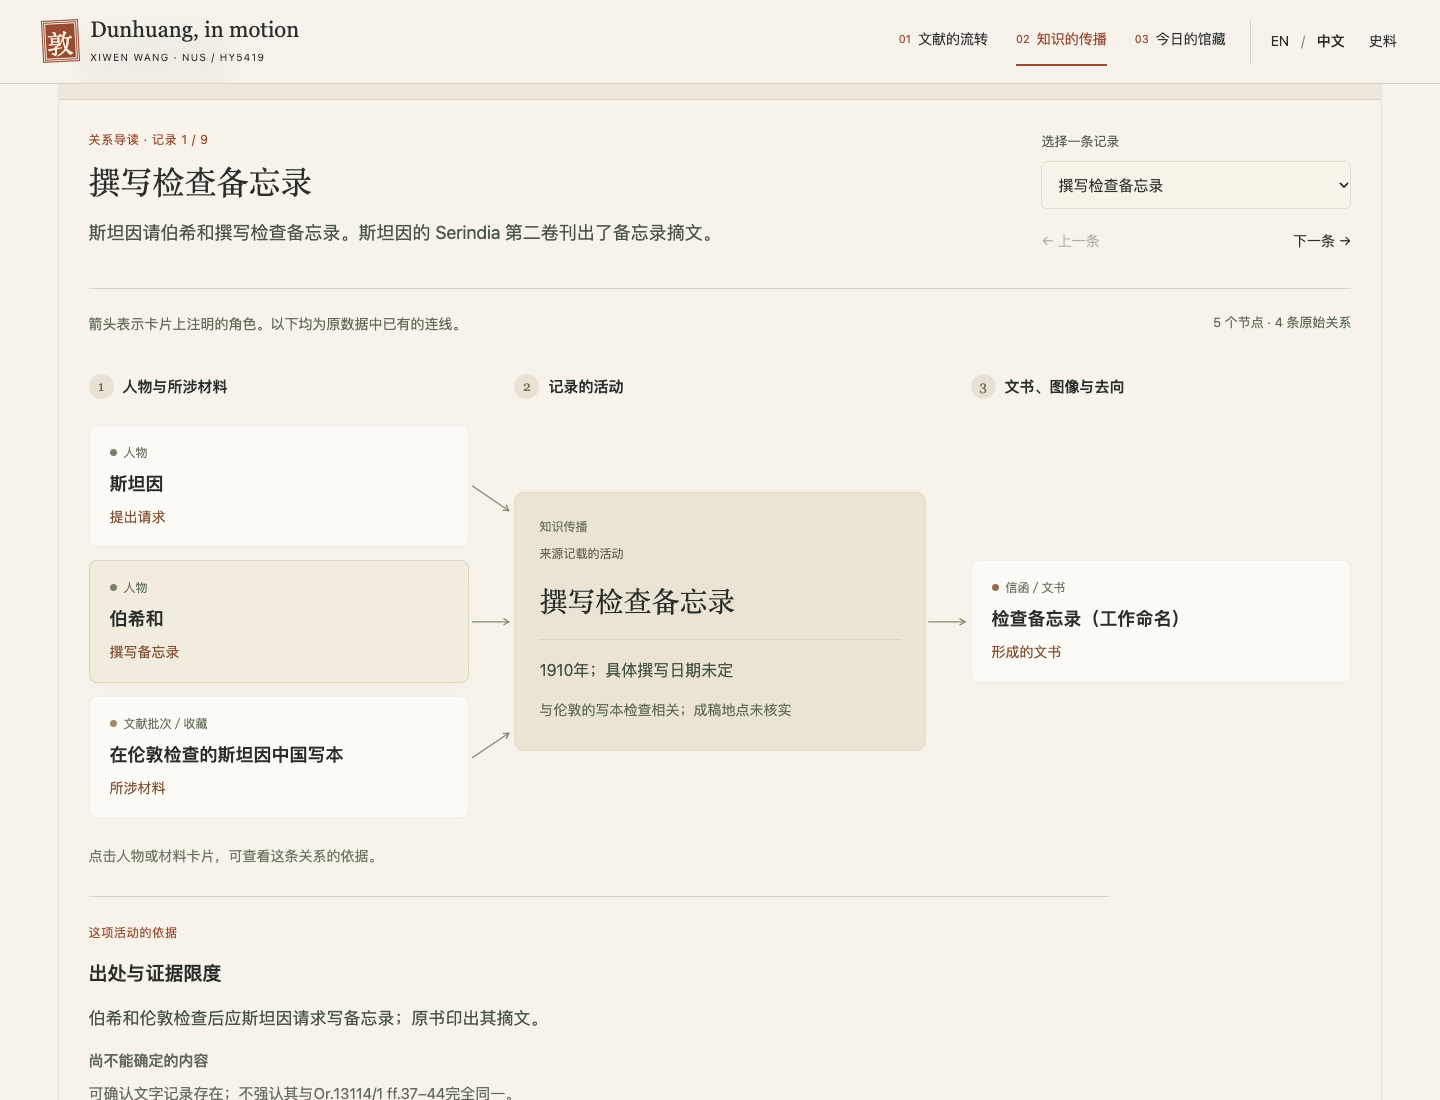
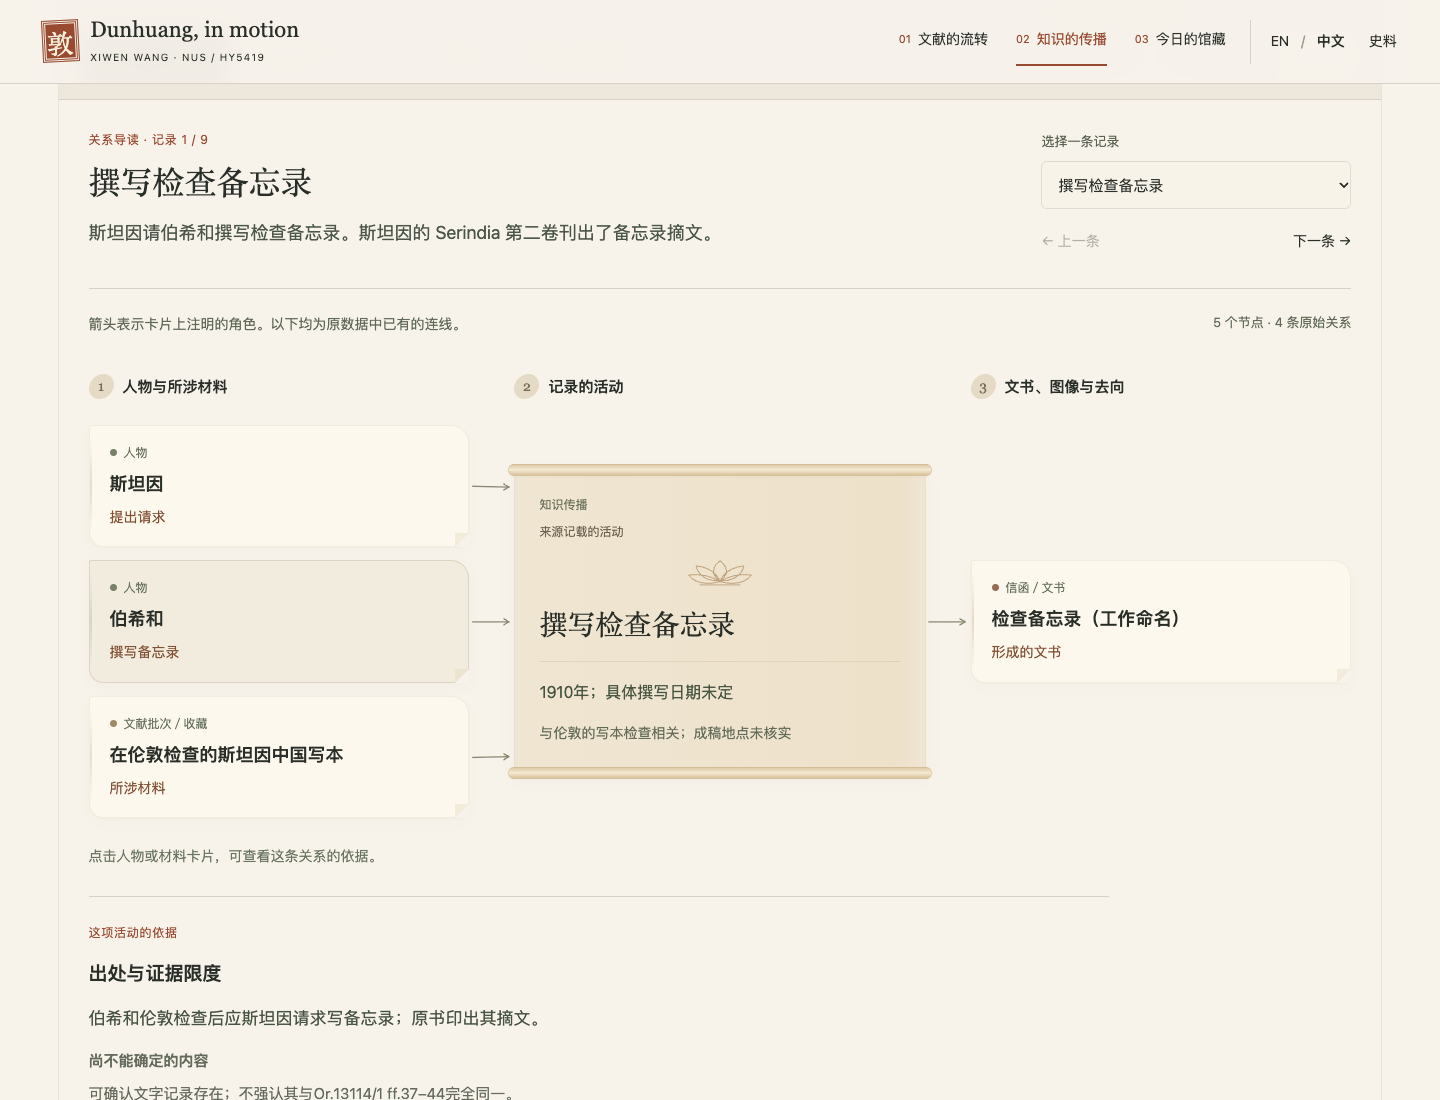
Use manuscript paper and lotus details in the relationship guide

Changed region(s): [[0.3438, 0.4018, 0.6562, 0.7109]]

diff --git a/dist/index.html b/dist/index.html
@@ -9,14 +9,14 @@
 <link href="https://3380903218-cmd.github.io/dunhuang-in-motion/" rel="canonical"/>
 <title>Dunhuang, in motion | Manuscripts, journeys &amp; collections</title>
 <link href="assets/favicon.svg" rel="icon" type="image/svg+xml"/>
-<link href="style.css?v=2.2.2" rel="stylesheet"/>
-<link href="network.css?v=2.2.2" rel="stylesheet"/>
-<script defer="" src="data.js?v=2.2.2"></script>
-<script defer="" src="assets/world.js?v=2.2.2"></script>
-<script defer="" src="app.js?v=2.2.2"></script>
-<script defer="" src="network-data.js?v=2.2.2"></script>
-<script defer="" src="network-roles.js?v=2.2.2"></script><script defer="" src="network.js?v=2.2.2"></script>
-<link href="story.css?v=2.2.2" rel="stylesheet"/><script defer="" src="story.js?v=2.2.2"></script><script defer="" src="network-guide.js?v=2.2.2"></script><link href="network-guide.css?v=2.2.2" rel="stylesheet"/><link href="preservation.css?v=2.2.2" rel="stylesheet"/><script defer="" src="preservation-data.js?v=2.2.2"></script><script defer="" src="preservation.js?v=2.2.2"></script></head>
+<link href="style.css?v=2.2.3" rel="stylesheet"/>
+<link href="network.css?v=2.2.3" rel="stylesheet"/>
+<script defer="" src="data.js?v=2.2.3"></script>
+<script defer="" src="assets/world.js?v=2.2.3"></script>
+<script defer="" src="app.js?v=2.2.3"></script>
+<script defer="" src="network-data.js?v=2.2.3"></script>
+<script defer="" src="network-roles.js?v=2.2.3"></script><script defer="" src="network.js?v=2.2.3"></script>
+<link href="story.css?v=2.2.3" rel="stylesheet"/><script defer="" src="story.js?v=2.2.3"></script><script defer="" src="network-guide.js?v=2.2.3"></script><link href="network-guide.css?v=2.2.3" rel="stylesheet"/><link href="preservation.css?v=2.2.3" rel="stylesheet"/><script defer="" src="preservation-data.js?v=2.2.3"></script><script defer="" src="preservation.js?v=2.2.3"></script></head>
 <body class="story-edition">
 <a class="skip-link" data-story-en="Skip to the story" data-story-zh="跳至正文" href="#story-intro">Skip to interactive map</a>
 <header class="site-header">
@@ -59,7 +59,7 @@
 <section class="collections-section story-chapter" id="collections"><div class="wrap"><div class="section-heading"><div><p class="eyebrow" data-i18n="collectionKicker">03 / WHERE THEY ARE NOW</p><h2 data-i18n="collectionsTitle">Related collecting institutions</h2></div><p class="chapter-intro" data-story-en="The five institutions shown here are in London, Paris and Beijing. Their manuscript and print collections are listed separately from related paintings and objects. Each entry links to an official collection page." data-story-zh="本案例涉及伦敦、巴黎和北京的五个现藏机构。各馆收藏类型分别标明，写本、印本与相关绘画、文物分列；链接通往官方馆藏页面。">The five institutions shown here are in London, Paris and Beijing. Their manuscript and print collections are listed separately from related paintings and objects. Each entry links to an official collection page.</p></div><nav class="collection-sections" aria-label="Collection sections"><a href="#collectionGrid" data-story-en="Collecting institutions ↓" data-story-zh="现藏机构 ↓">Collecting institutions ↓</a><a href="#preservation" data-story-en="Preservation &amp; completeness ↓" data-story-zh="保存方式与文献完整度 ↓">Preservation &amp; completeness ↓</a></nav><div class="collection-grid" id="collectionGrid"></div><p class="collection-note" data-i18n="collectionsNote">These institutions represent this case study, not a complete inventory of Dunhuang collections. Locations are city-level references; holding an object does not mean it is on public display.</p><section id="preservation" aria-label="Preservation and manuscript completeness"></section><div class="closing-statement"><p class="eyebrow" data-story-en="ABOUT THIS PROJECT" data-story-zh="项目说明">ABOUT THIS PROJECT</p><h3 data-story-en="Manuscript circulation and Dunhuang scholarship" data-story-zh="文献流转与敦煌研究">Manuscript circulation and Dunhuang scholarship</h3><p data-story-en="The map records transfers between places; the network records the people, institutions and events involved. Select a transport record or scholarly activity to consult its sources before drawing connections between them." data-story-zh="地图记录材料在地点之间的流转，网络记录相关人物、机构与事件。读者可以从一条运输记录或一次学术活动进入，查阅对应史料，再判断两者之间的联系。">The map records transfers between places; the network records the people, institutions and events involved. Select a transport record or scholarly activity to consult its sources before drawing connections between them.</p><a class="text-link" data-story-en="Read the sources &amp; method ↓" data-story-zh="查看史料与方法 ↓" href="#sources"></a></div></div></section>
 <section class="sources wrap story-chapter" id="sources"><div class="method-heading"><p class="eyebrow" data-i18n="sourcesKicker">04 / BEHIND THE MAP</p><h2 data-i18n="sourcesTitle">Sources and evidence</h2><p data-i18n="sourceIntro">The route map and relationship network draw on expedition accounts, correspondence, research publications and collection catalogues. Select a map connection or network node to consult its sources and evidence notes. Unverified stops and links to individual manuscripts are left unspecified.</p><a class="text-link" data-i18n="download" download="dunhuang-exhibition-data.json" href="#" id="downloadData">Download exhibition data ↓</a></div><div class="method-content"><div class="method-notes"><article><span>01</span><div><h3 data-i18n="method1Title">Routes and locations</h3><p data-i18n="method1">Map lines represent geographical connections recorded in the sources, rather than every stop along a journey. Unverified stops, ports and historical buildings are left unlocated. Present-day museum addresses are not used as historical handover sites.</p></div></article><article><span>02</span><div><h3 data-i18n="method2Title">Transport and accession records</h3><p data-i18n="method2">Pelliot’s main expedition cargo arrived in Paris in 1909; the BnF records entry of the manuscripts into its department in 1910. These are recorded separately. Cases, scrolls, objects, images and catalogue numbers retain their original units and are not converted into one another.</p></div></article><article><span>03</span><div><h3 data-i18n="method3Title">Batches and individual manuscripts</h3><p data-i18n="method3">Most historical connections are based on records of batches or whole collections. Apart from a few verified catalogue examples, this project has not matched individual manuscripts to every historical handover.</p></div></article></div><details class="source-details"><summary data-i18n="sourceList">Expand historical and collection sources</summary><ol id="sourceList"></ol></details></div></section>
 </main>
-<footer class="site-footer wrap"><div class="footer-brand">敦煌 <span>IN MOTION</span></div><p>HY5419 · DIGITAL HISTORY PROJECT <span>2026</span></p><a data-i18n="imageCredit" href="https://commons.wikimedia.org/wiki/File:Diamond_Sutra_of_868_AD_-_The_Diamond_Sutra_(868),_frontispiece_and_text_-_BL_Or._8210-P.2.jpg" rel="noopener noreferrer" target="_blank">Image: British Library / Wikimedia Commons · CC0 ↗</a><small data-story-en="Collection &amp; preservation sources checked: 29 Oct 2026 · Story edition 2.2.2" data-story-zh="馆藏与保存资料核对：2026-10-29 · 叙事版 2.2.2">Collection &amp; preservation sources checked: 29 Oct 2026 · Story edition 2.2.2</small></footer>
+<footer class="site-footer wrap"><div class="footer-brand">敦煌 <span>IN MOTION</span></div><p>HY5419 · DIGITAL HISTORY PROJECT <span>2026</span></p><a data-i18n="imageCredit" href="https://commons.wikimedia.org/wiki/File:Diamond_Sutra_of_868_AD_-_The_Diamond_Sutra_(868),_frontispiece_and_text_-_BL_Or._8210-P.2.jpg" rel="noopener noreferrer" target="_blank">Image: British Library / Wikimedia Commons · CC0 ↗</a><small data-story-en="Collection &amp; preservation sources checked: 29 Oct 2026 · Story edition 2.2.3" data-story-zh="馆藏与保存资料核对：2026-10-29 · 叙事版 2.2.3">Collection &amp; preservation sources checked: 29 Oct 2026 · Story edition 2.2.3</small></footer>
 <div class="toast" hidden="" id="toast" role="status"></div>
 <noscript><p class="noscript" data-i18n="noScript">The interactive map requires JavaScript. Enable it and reload, or consult the project reading guide for collection and source references.</p></noscript>
 </body>

diff --git a/dist/network-guide.js b/dist/network-guide.js
@@ -17,6 +17,7 @@
   // The reading guide follows the exhibition palette; original Gephi colours stay in the full graph.
   const guideColors={Person:'#788269',Collection:'#a08a65',Institution:'#7c806b',Government:'#7c806b',Work:'#956c52',Representation:'#968769',Event:'#9a775d',Object:'#a08a65',Expedition:'#788269',PublicationOrganisation:'#956c52'};
   const guideLineColors={'Knowledge transmission':'#85866f','Physical circulation':'#aa7858','Cross-layer':'#8b7965'};
+  const lotus='<svg class="guide-lotus" viewBox="0 0 80 32" aria-hidden="true" focusable="false"><g fill="none" stroke="currentColor" stroke-width="1.2" stroke-linecap="round" stroke-linejoin="round"><path d="M40 26C29 19 30 9 40 2C50 9 51 19 40 26Z"/><path d="M40 26C24 27 13 19 11 8C25 9 35 16 40 26ZM40 26C56 27 67 19 69 8C55 9 45 16 40 26Z"/><path d="M40 27C23 32 8 28 2 19C17 17 31 21 40 27ZM40 27C57 32 72 28 78 19C63 17 49 21 40 27Z"/><path d="M16 31H64"/></g></svg>';
   const aliases={KE007:['Writing the inspection memorandum','撰写检查备忘录'],KE005:['Unpacking, cataloguing and listing','拆箱、编目与列单'],MAP_KE012:['Ministry telegram','学部发出电报'],KE009:['Displaying manuscripts in Beijing','在北京出示写本'],KE006:['Examining manuscripts in London','在伦敦检查写本'],B0010:['Stein Chinese manuscripts examined in London','在伦敦检查的斯坦因中国写本'],W001:['Inspection memorandum (working title)','检查备忘录（工作命名）']};
   const label=n=>aliases[n.id]?.[language()==='zh'?1:0]||name(n);
   const role=e=>window.DUNHUANG_RELATION_TEXT(e,language(),e.label);
@@ -114,7 +115,7 @@
     panel.innerHTML=`<header class="guide-header"><div><p class="guide-small-title">${esc(t('guide'))} · ${esc(t('record'))} ${at+1} ${esc(t('of'))} ${options.length}</p><h3>${esc(label(N.get(ev.EventId)))}</h3><p class="guide-lead">${esc(summary)}</p></div><div class="guide-selector"><label for="guideEvent">${esc(t('choose'))}</label><select id="guideEvent">${options.map(id=>`<option value="${esc(id)}"${id===G.eventId?' selected':''}>${esc(label(N.get(id)))}</option>`).join('')}</select><div class="guide-paging"><button data-guide-step="-1"${at===0?' disabled':''}>← ${esc(t('previous'))}</button><button data-guide-step="1"${at===options.length-1?' disabled':''}>${esc(t('next'))} →</button></div></div></header>
     <div class="guide-reading"><p>${esc(t('read'))}</p><span>${nodeCount} ${esc(t('nodes'))} · ${edges.length} ${esc(t('relations'))}${shown.length+outgoing.length<edges.length?' · '+(language()==='zh'?'当前显示 ':'shown ')+(shown.length+outgoing.length):''}</span></div>
     <div class="relation-diagram"><section class="guide-inputs"><h4><span>1</span>${esc(t('inputs'))}</h4><div class="relation-cards">${shown.map(e=>nodeCard(e,true)).join('')||`<p class="guide-no-record">${esc(t('noInputs'))}</p>`}</div>${incoming.length>6?`<button class="guide-expand" data-guide-expand>${esc(G.expanded?t('fewer'):t('more'))}${G.expanded?'':' ('+(incoming.length-6)+')'}</button>`:''}</section>
-    <section class="guide-activity"><h4><span>2</span>${esc(t('event'))}</h4><article class="activity-card ${state}"><p class="activity-layer">${esc(t(ev.Layer==='Physical circulation'?'material':'knowledge'))}</p><p class="activity-state">${esc(t(state))}</p><h5>${esc(label(N.get(ev.EventId)))}</h5><p class="activity-date">${esc(evDate(ev))}</p><p class="activity-place">${esc(evPlace(ev))}</p>${ev.Scope!=='Dunhuang materials'?`<p class="activity-scope">${esc(t('scope'))}</p>`:''}</article></section>
+    <section class="guide-activity"><h4><span>2</span>${esc(t('event'))}</h4><article class="activity-card ${state}"><p class="activity-layer">${esc(t(ev.Layer==='Physical circulation'?'material':'knowledge'))}</p><p class="activity-state">${esc(t(state))}</p>${lotus}<h5>${esc(label(N.get(ev.EventId)))}</h5><p class="activity-date">${esc(evDate(ev))}</p><p class="activity-place">${esc(evPlace(ev))}</p>${ev.Scope!=='Dunhuang materials'?`<p class="activity-scope">${esc(t('scope'))}</p>`:''}</article></section>
     <section class="guide-outputs"><h4><span>3</span>${esc(t('outputs'))}</h4><div class="relation-cards">${outgoing.map(e=>nodeCard(e,false)).join('')||`<p class="guide-no-record">${esc(t('noOutputs'))}</p>`}</div></section></div>
     <p class="guide-card-help">${esc(t('inspect'))}</p>${proofHTML(ev)}<p class="guide-arrangement">${esc(t('arrangement'))}</p>`;
     $('guideEvent').addEventListener('change',e=>{G.eventId=e.target.value;G.edgeId=null;G.expanded=false;render();$('guideEvent').focus({preventScroll:true});});

diff --git a/dist/network-guide.css b/dist/network-guide.css
@@ -12,15 +12,18 @@
 .relation-diagram{display:grid;grid-template-columns:minmax(0,1fr) minmax(0,1.08fr) minmax(0,1fr);gap:45px;align-items:start}
 .relation-diagram>section{min-width:0;position:relative}
 .relation-diagram h4{display:flex;align-items:center;gap:9px;font-size:15px;line-height:1.5;margin:0 0 16px;min-height:25px;font-weight:600}
-.relation-diagram h4>span{font:14px var(--serif);border:0;background:#e9e2d4;border-radius:50%;width:25px;height:25px;display:inline-flex;align-items:center;justify-content:center;flex-shrink:0;color:#746b54}
+.relation-diagram h4>span{font:14px var(--serif);border:0;background:#e5dac5;border-radius:60% 40% 60% 40%;width:25px;height:25px;display:inline-flex;align-items:center;justify-content:center;flex-shrink:0;color:#746b54}
 .relation-cards{display:grid;gap:13px}
-.relation-card{position:relative;width:100%;text-align:left;display:block;border:1px solid #dcd4c64d;border-radius:8px;background:#fcfaf5;padding:17px 20px 18px;min-height:110px;box-shadow:0 3px 12px #51432a04;transition:border-color .15s,background .15s,box-shadow .15s;overflow-wrap:anywhere}
+.relation-card{position:relative;width:100%;text-align:left;display:block;border:1px solid #d8c8ae40;border-radius:2px 18px 3px 14px;background:#fcf8ed;padding:17px 20px 18px;min-height:110px;box-shadow:0 1px 2px #8b70560a,0 5px 16px #51432a04;transition:border-color .15s,background .15s,box-shadow .15s;overflow-wrap:anywhere}
+.relation-card:before{content:'';position:absolute;left:0;top:14px;bottom:14px;width:2px;background:linear-gradient(transparent,var(--node-color),transparent);opacity:.22;pointer-events:none}.relation-card:after{content:'';position:absolute;right:-1px;bottom:-1px;width:14px;height:14px;background:linear-gradient(135deg,#d8c5a440 49%,var(--paper) 51%);pointer-events:none}
 .relation-card:hover{background:#f2ecdf;border-color:#cbbda780;box-shadow:0 4px 14px #51432a08}.relation-card.selected{outline:0;border-color:#a66c4d80;background:#efe5d5;box-shadow:inset 0 0 0 1px #a66c4d26}.relation-card:focus-visible{outline:2px solid var(--red);outline-offset:4px}
 .relation-type{font-size:12px;line-height:1.6;color:#65705c;display:flex;align-items:center;gap:7px}.relation-type i{height:7px;width:7px;border-radius:50%;background:var(--node-color);border:0;display:inline-block;flex-shrink:0}
 .relation-card strong{display:block;font-size:18px;font-weight:600;line-height:1.5;margin:8px 0 9px}.relation-role{display:block;font-size:14px;line-height:1.6;color:#825032}
 .relation-direction{position:absolute;top:50%;right:-34px;transform:translateY(-50%);color:#818975;font-size:25px;font-weight:400;pointer-events:none}
 .guide-outputs .relation-direction{right:auto;left:-34px}
-.activity-card{border:1px solid #d3c7b54d;border-radius:10px;background:#ebe4d5;padding:24px 24px 27px;min-height:235px;margin-top:0;box-shadow:0 5px 20px #51432a04}
+.activity-card{position:relative;border:1px solid #d3c0a22b;border-radius:2px;background:linear-gradient(90deg,#e7d8bd80,#efe5d1 6%,#eee1ca 94%,#e7d8bd80);padding:25px 24px 28px;min-height:235px;margin-top:0;box-shadow:0 5px 18px #51432a08}
+.activity-card:before,.activity-card:after{content:'';position:absolute;left:-7px;right:-7px;height:10px;border:1px solid #c6ad855e;border-radius:10px;background:linear-gradient(180deg,#dfcba8,#f5ead3 48%,#d9c29c);box-shadow:0 1px 3px #7d624e0a;pointer-events:none}.activity-card:before{top:-6px}.activity-card:after{bottom:-6px}
+.guide-lotus{display:block;width:66px;height:27px;color:#ae8c61;opacity:.75;margin:18px auto 4px}
 .activity-card.proposal,.activity-card.promise{border:1px dashed #b9a78a;background:#eee5d5}
 .activity-state{font-size:12px;line-height:1.6;color:#6c6250}.activity-card h5{font:28px/1.4 var(--serif);font-weight:400;margin:18px 0}.activity-date{font-size:16px;line-height:1.8;color:#465441;border-top:1px solid #9d8d6e30;padding-top:16px;margin-top:18px}.activity-place{font-size:14px;line-height:1.8;margin-top:13px;color:#626b58}
 .activity-scope{font-size:13px;line-height:1.8;border-top:1px solid #c8c3b3;margin-top:18px;padding-top:15px;color:#815133}

diff --git a/docs/RELATIONSHIP_GUIDE.md b/docs/RELATIONSHIP_GUIDE.md
@@ -36,6 +36,6 @@ This release does not change `data.js`, `network-data.js` or the downloadable GE
 `relation-guide-verification.json` records checks across 320, 390, 768, 1024 and 1440 pixel widths in both languages. All 42 event projections are compared against the original edge endpoints. Checks also cover selected-edge evidence, keyboard operation, language retention, proposal status, eighteen banquet attendees, telegram direction, route-map linking, global search and both full-network layers.
 
 
-## Exhibition styling (2.2.2)
+## Exhibition styling (2.2.3)
 
-The guide uses muted sage, ochre and brown, with a parchment activity panel. Thin translucent borders and softly rounded cards replace the heavy node-colour stripes. Cards are vertically centred within the three columns. Connections use thin straight strokes and open arrowheads; a selected card and its connection use the site’s terracotta accent. Keyboard focus remains distinct. These are display-only colours: the original Gephi node/edge colours, research snapshot, directions and downloadable GEXF are unchanged.
+The guide uses muted sage, ochre and brown, with a scroll-shaped activity panel. Paper-note cards use asymmetric corners and a small folded edge. The central activity uses a scroll outline, warm paper colour and an original, decorative lotus drawing. Cards are vertically centred within the three columns. Connections use thin straight strokes and open arrowheads; a selected card and its connection use the site’s terracotta accent. Keyboard focus remains distinct. These are display-only colours: the original Gephi node/edge colours, research snapshot, directions and downloadable GEXF are unchanged.

diff --git a/CREDITS.md b/CREDITS.md
@@ -22,3 +22,6 @@ Source titles, authors, links, page or section references, and evidence limitati
 The README previews are screenshots of this exhibition's map and network, not new historical reconstructions. The underlying image and geography credits above continue to apply.
 
 Publication of this repository does not change the rights in cited scholarship, third-party material or the original project work.
+
+
+Relationship-guide ornament: original inline vector lotus drawing and CSS paper/scroll details, created for this exhibition (release 2.2.3). These decorative details carry no manuscript-condition or provenance meaning.

diff --git a/README.md b/README.md
@@ -106,4 +106,4 @@ Historical evidence organisation · relational data modelling · Gephi network v
 
 点击顶部 **Network／传播网络** 可搜索人物、查看关系和证据，并切换传播层或年份。点击已匹配的事件，可跳回路线地图。项目的研究范围、证据限制和资产来源分别见 [DATA_NOTES.md](DATA_NOTES.md) 与 [CREDITS.md](CREDITS.md)。
 
-Website release **v2.2.2 · 29 October 2026**.
+Website release **v2.2.3 · 29 October 2026**.
